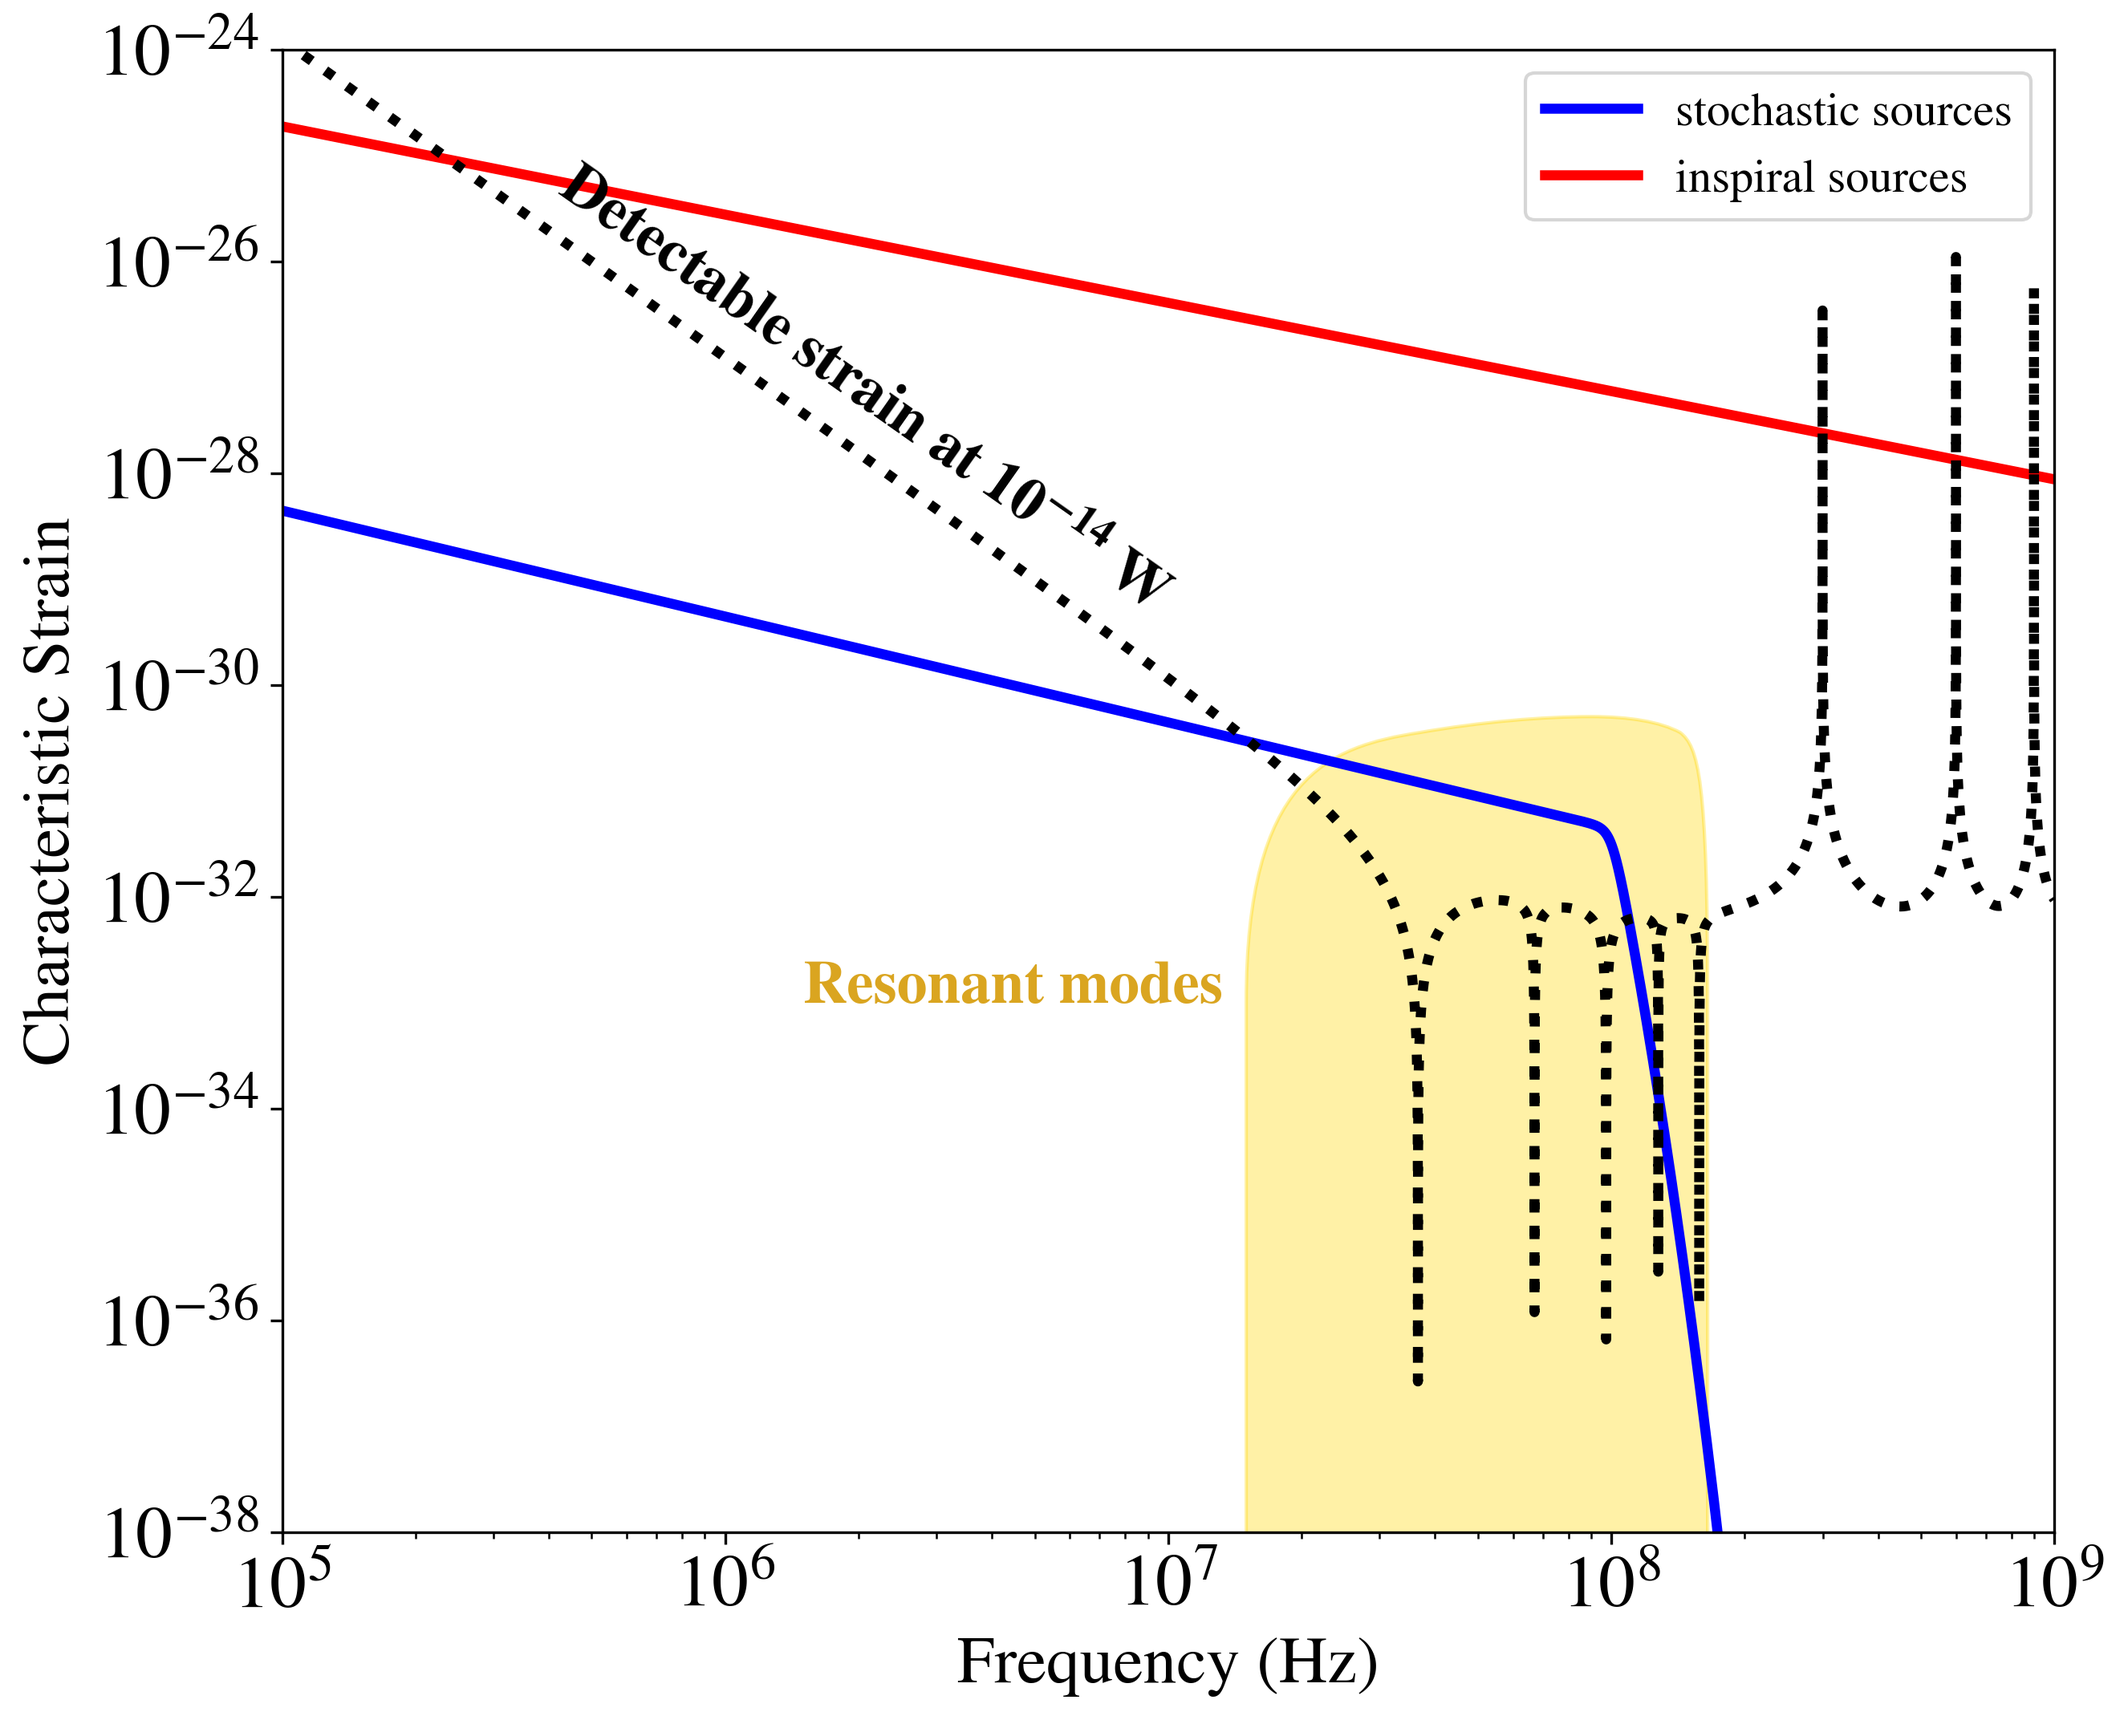
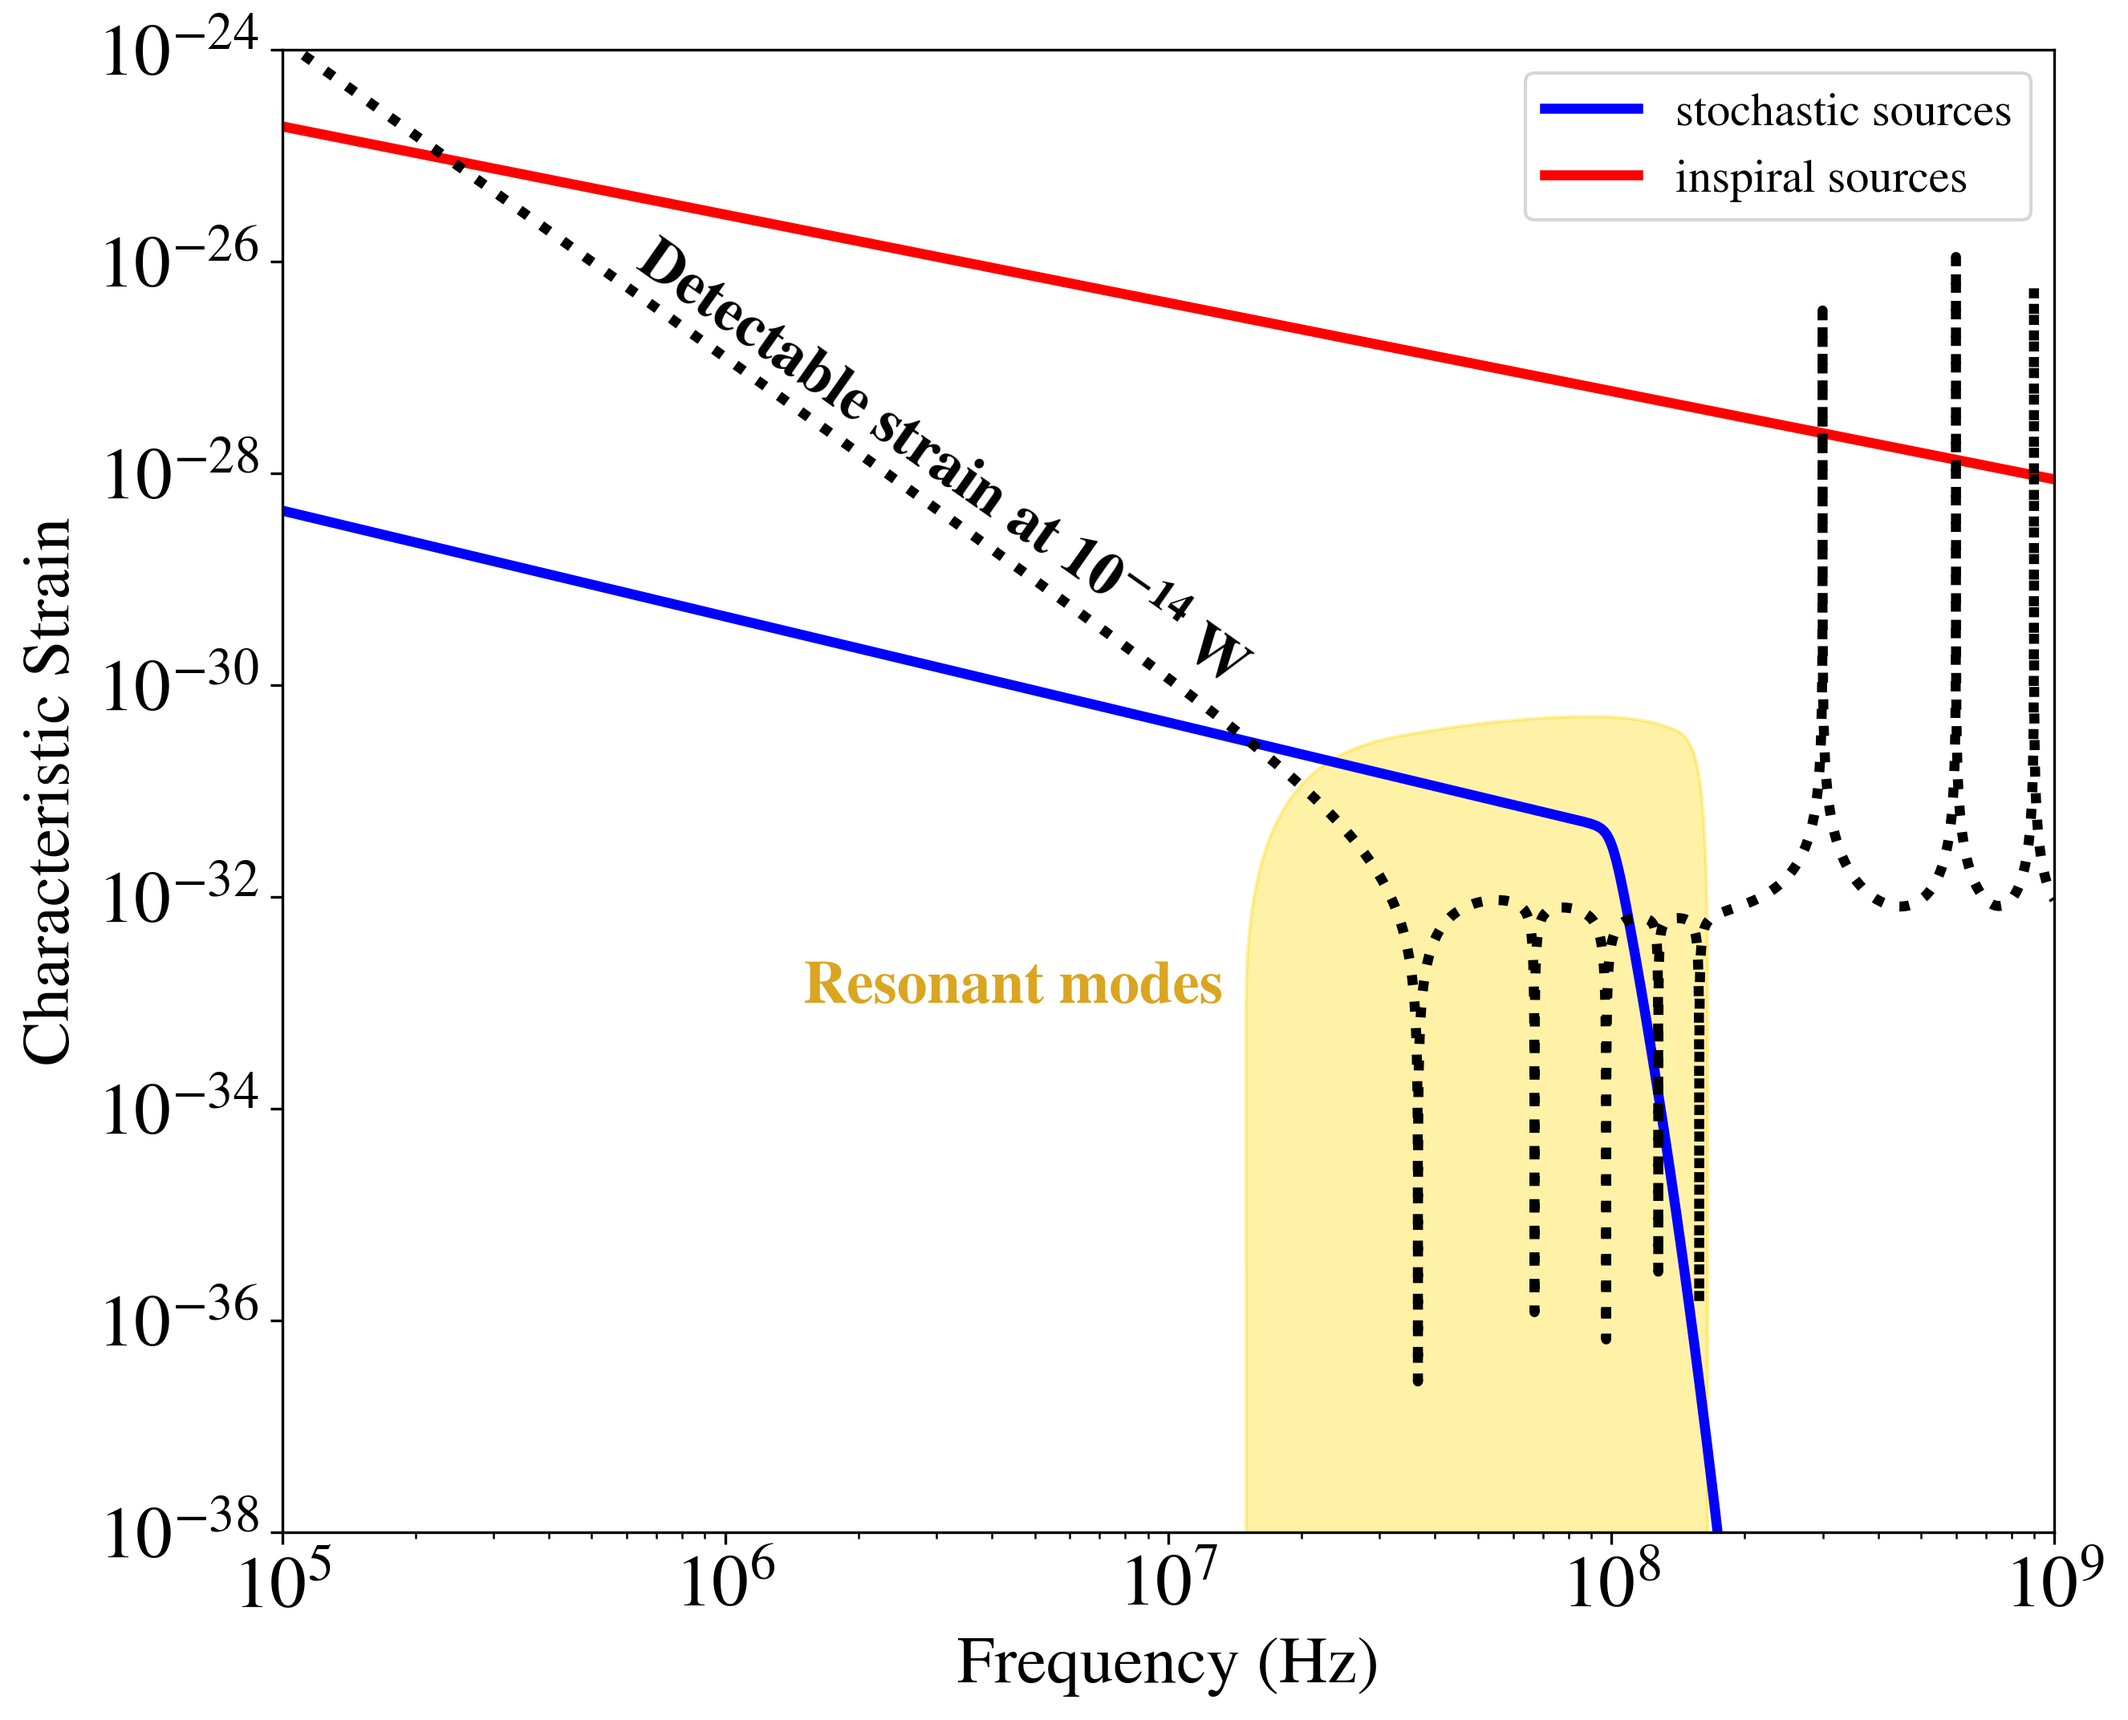
yepouille

Changed region(s): [[0.2474, 0.0938, 0.5875, 0.4062]]

diff --git a/plot_pbh.py b/plot_pbh.py
@@ -44,7 +44,7 @@ ylabel(r'Induced EM Power (W)')
 ax1.set_box_aspect(1)
 ax1.yaxis.set_major_formatter(ticker.ScalarFormatter(useMathText=True, useOffset=False))
 ax1.xaxis.set_major_formatter(ticker.ScalarFormatter(useMathText=True, useOffset=False))
-annotate(r"\bf massive boost",(5.1e-5,5e-10), xytext=(2e-5,2e-9),arrowprops=dict(facecolor='black', shrink=0.05),fontsize=fsize)
+annotate(r"\bf resonance triggered",(5.1e-5,5e-10), xytext=(1e-5,2e-9),arrowprops=dict(facecolor='black', shrink=0.05),fontsize=fsize)
 ax2=subplot(1,2,2)
 loglog(omega/2/pi,abs(TFdP_f)**2,'g')
 axis([1e4,1e9,1e-42,1e-15])
@@ -71,7 +71,7 @@ ylabel(r'Induced EM Power (W)')
 ax1.set_box_aspect(1)
 ax1.yaxis.set_major_formatter(ticker.ScalarFormatter(useMathText=True, useOffset=False))
 ax1.xaxis.set_major_formatter(ticker.ScalarFormatter(useMathText=True, useOffset=False))
-annotate(r"\bf massive boost",(5.1e-5,5e-10), xytext=(2e-5,2e-9),arrowprops=dict(facecolor='black', shrink=0.05),fontsize=fsize)
+annotate(r"\bf resonance triggered",(5.1e-5,5e-10), xytext=(1e-5,2e-9),arrowprops=dict(facecolor='black', shrink=0.05),fontsize=fsize)
 ax2=subplot(1,2,2)
 loglog(omega/2/pi,abs(TFdP_f)**2,'g')
 axis([1e4,1e9,1e-42,1e-15])

diff --git a/bode.py b/bode.py
@@ -66,7 +66,7 @@ x_scale = 9.5 * 0.78 / (rng[1] - rng[0])
 y_scale = 8 * 0.80 / (rng[3] - rng[2])  
 # angle= np.degrees(np.arctan2((np.log(prmslim/fct_bode(fplot[1],cavity,Rmax))-np.log(prmslim/fct_bode(fplot[0],cavity,Rmax))),np.log(fplot[1])-np.log(fplot[0])))
 # print(angle)
-l=np.array([4e5,5e-30])
+l=np.array([6e5,1e-30])
 # transangle=plt.gca().transData.transform_angles(np.array((angle,)),l.reshape((1, 2)))[0]
 # print(transangle)
 plt.annotate("Detectable strain at $\mathbf{10^{-14}}$ W ",l,rotation=-61.5/1.75, fontweight='bold',fontsize=18)
